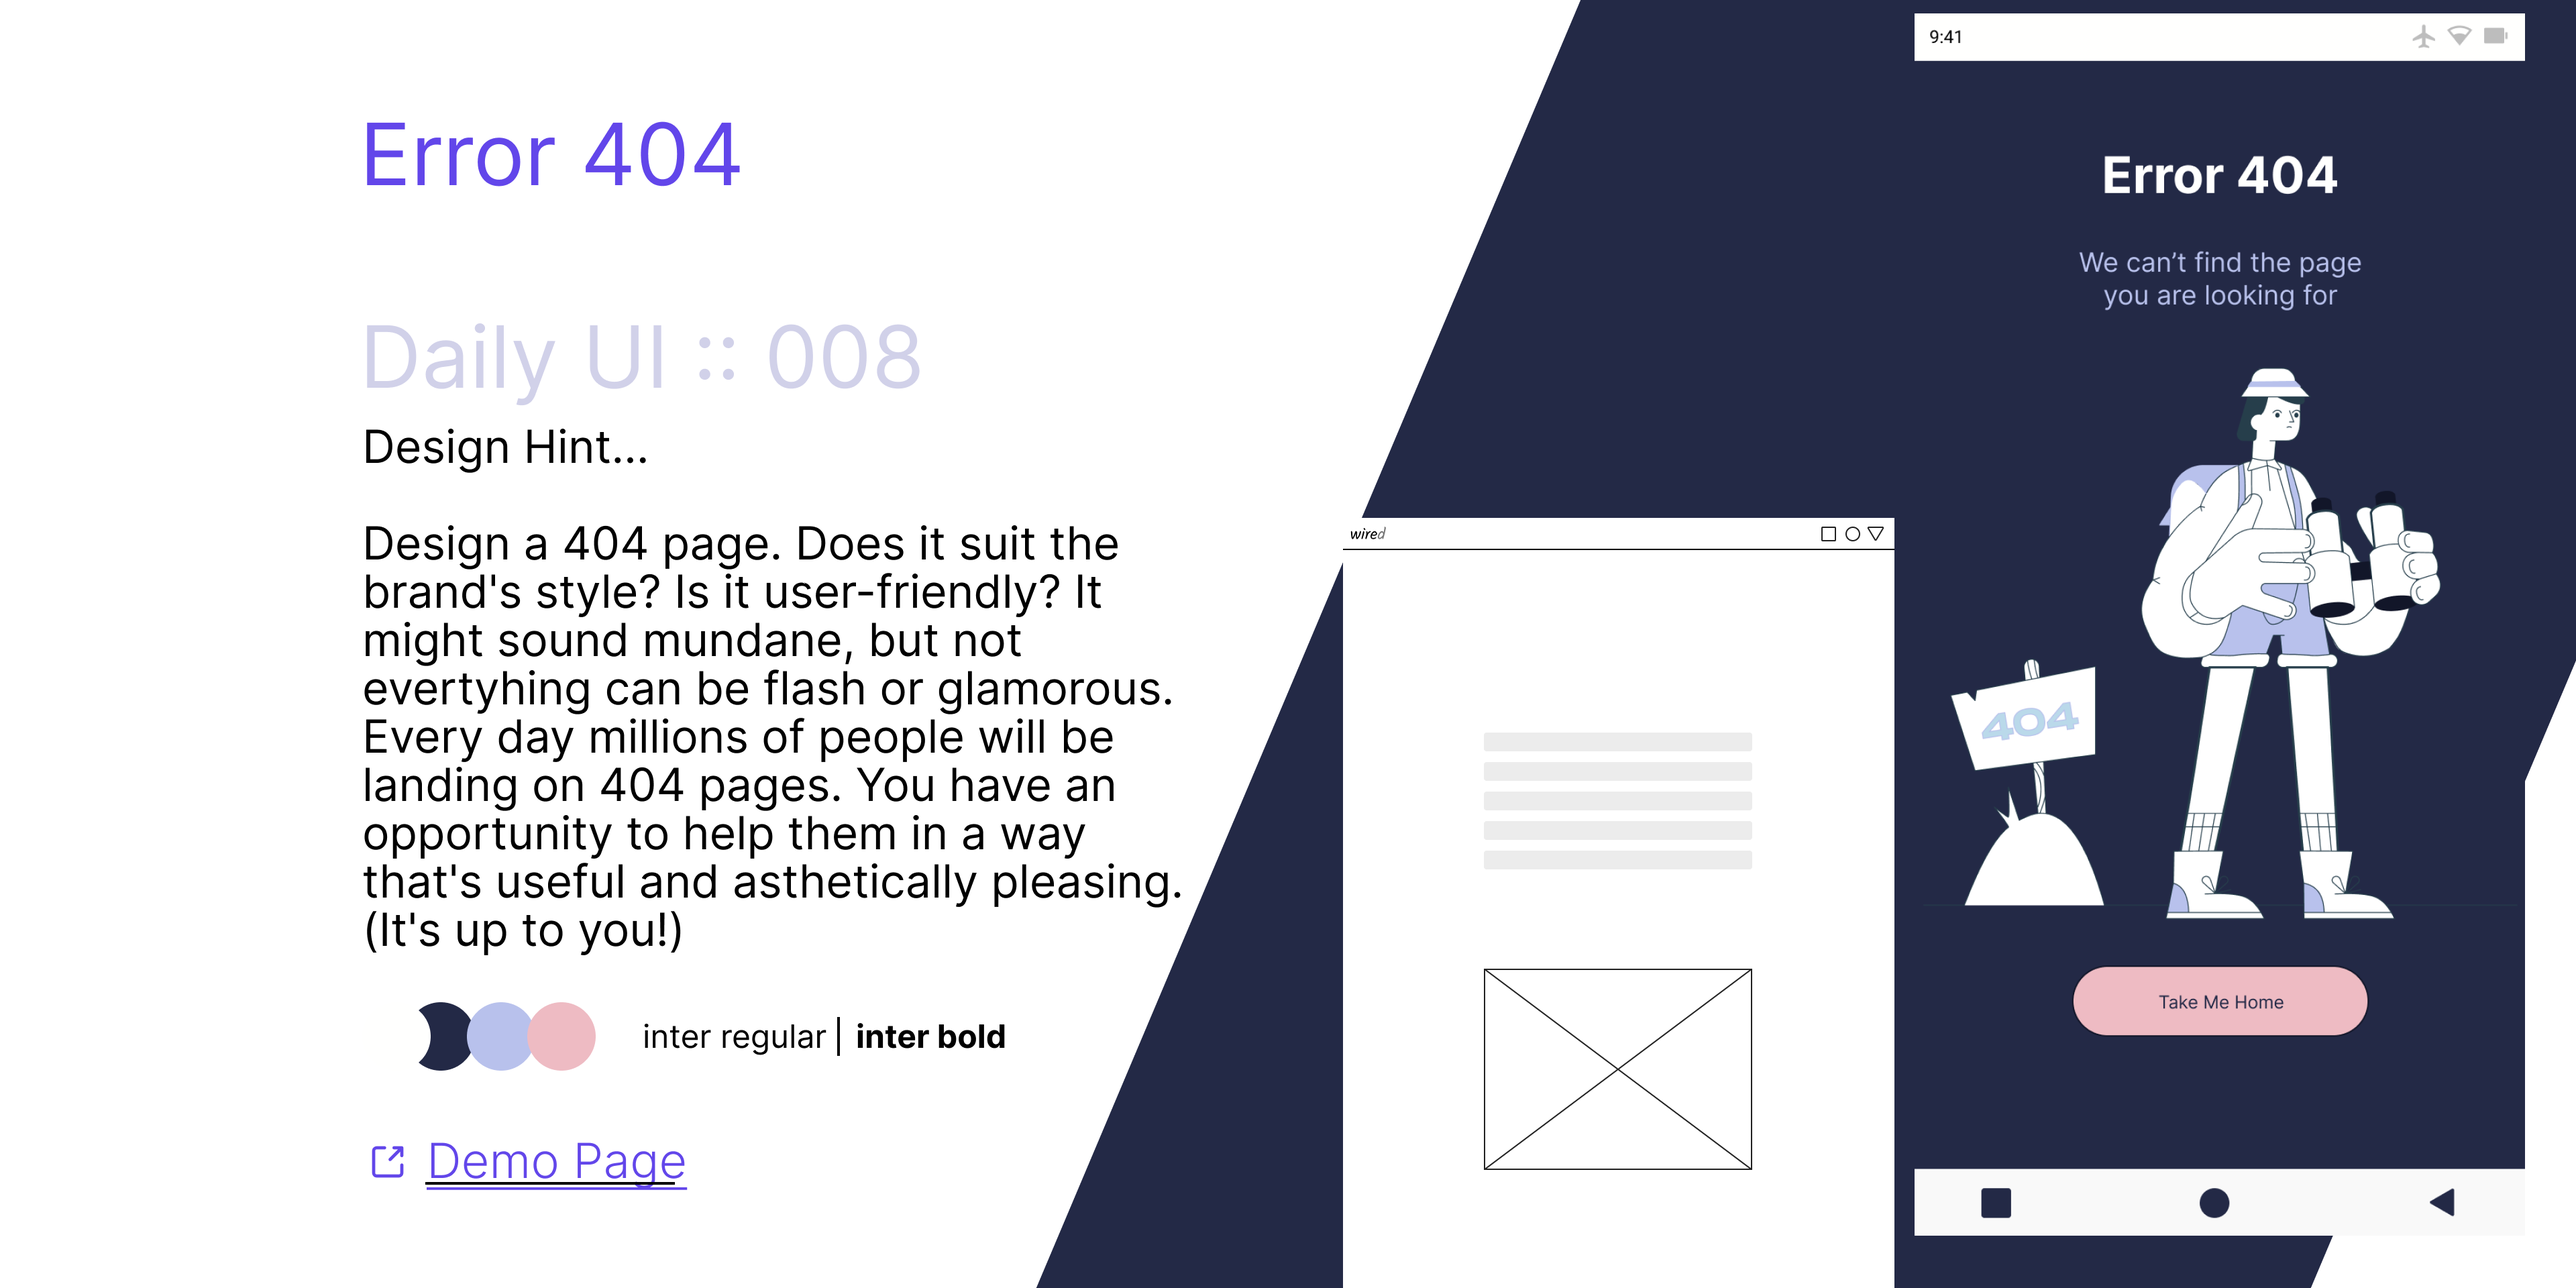
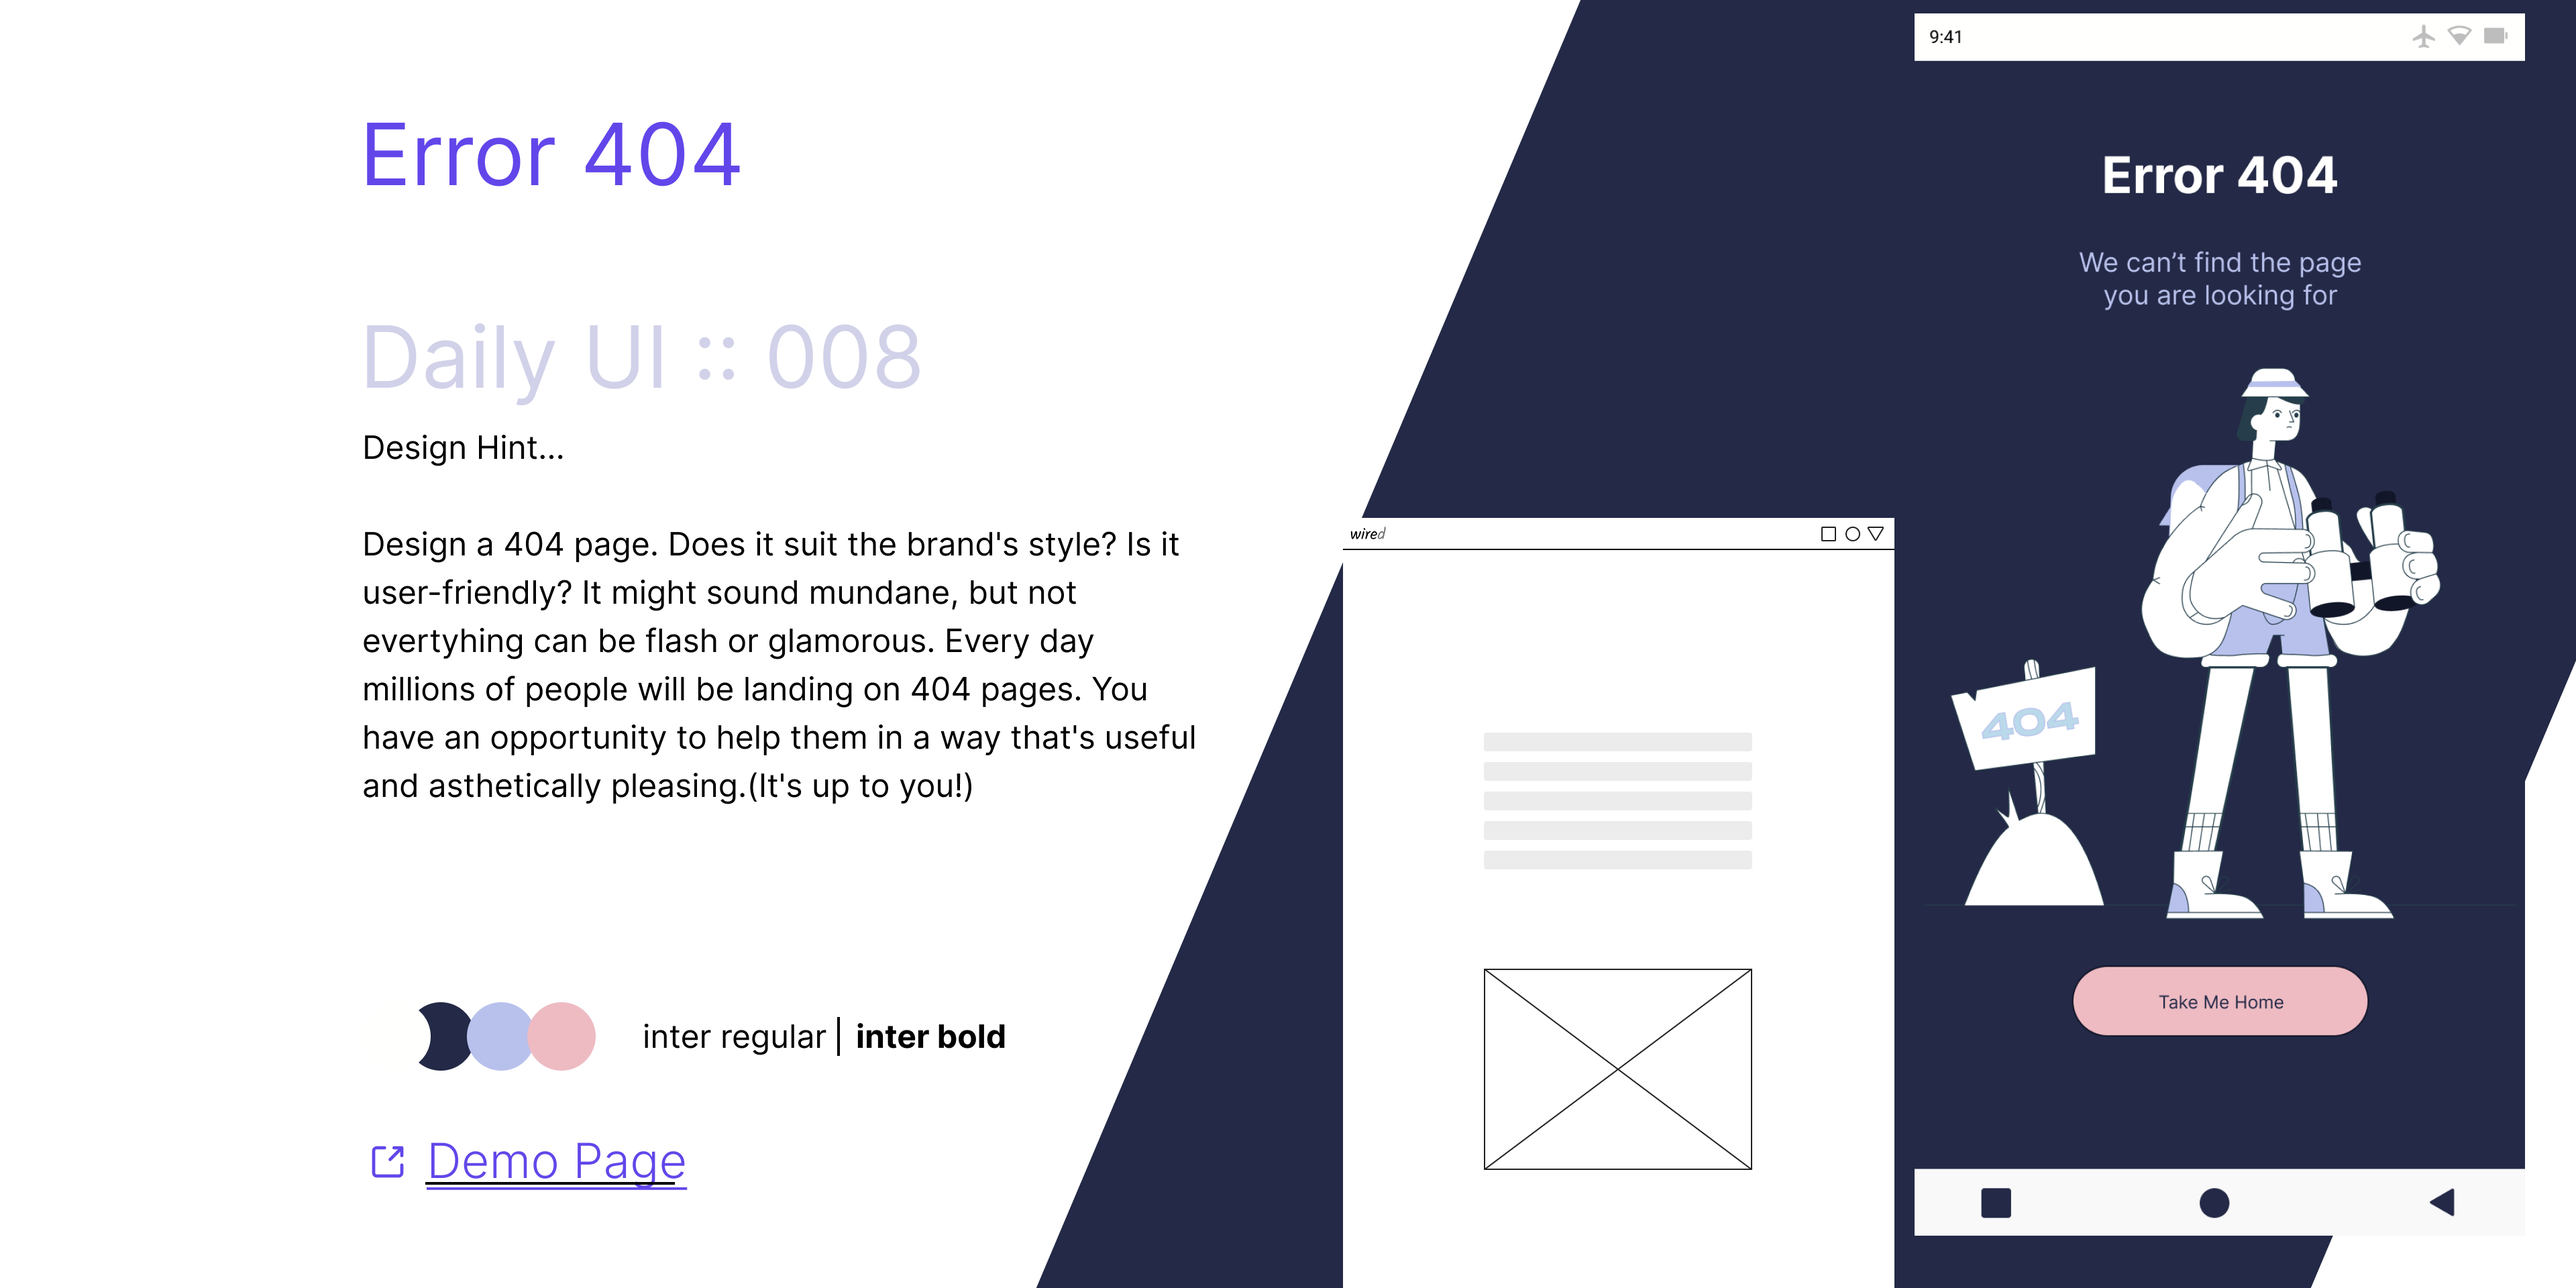
update content

Changed region(s): [[0.125, 0.4062, 0.4688, 0.75], [0.125, 0.3438, 0.25, 0.375]]

diff --git a/_posts/2021-09-28-ux-ui-design-challenges.md b/_posts/2021-09-28-ux-ui-design-challenges.md
@@ -9,7 +9,7 @@ toc: true
 ---
 
 
-As the usage of technology grows by the day, so does the demand for user experience (UX) designers. UX designers are concerned with how users interact with things such as websites, applications, and physical items. Everyday encounters are made more helpful, pleasant, and accessible by UX designers. That is why businesses of all sizes and in a variety of sectors require the services of UX designers. I am thrilled to walk through this journey to become a better UX designer, as I gain the skills necessary to launch a career/product in today's most demand to technology products.
+As the usage of technology grows by the day, so does the demand for user experience (UX) designers. UI/UX designers are concerned with how users interact with things such as websites, applications, and physical items. Everyday encounters are made more helpful, pleasant, and accessible by UX designers. That is why businesses of all sizes and in a variety of sectors require the services of UX designers. I am thrilled to walk through this journey to become a better UX designer, as I gain the skills necessary to launch a career/product in today's most demand to technology products.
 
 ## Exploring Figma
 
@@ -68,3 +68,53 @@ Design a calculator. Standard, scientific, or specialty calculator for something
 ![day four](../assets/images/ux/calculator-thumbnail.png)
 
 [Demo Page](https://www.figma.com/proto/9v1RHwmqOnTJPihWDypGFb/Daily-UI-::-004?node-id=1%3A2&viewport=241%2C48%2C1&scaling=scale-down&page-id=0%3A1%3Ffuid%3D901914268454600757)
+
+## Daily UI :: 005
+
+Design Hint...
+
+Design an app icon. What best represents the brand or product? Or is it incredibly unique? Does it look great at a distance and does it stand out when put on your home screen alongside other apps?
+
+![day five](../assets/images/ux/app-icon-thumbnail.png)
+
+[Demo Page](https://www.figma.com/proto/b3BBFaRQ3HSA9ZwI2ITGR0/Daily-UI-%3A%3A-005?node-id=8%3A42&viewport=241%2C48%2C0.74&scaling=contain&page-id=0%3A1%3Ffuid%3D901914268454600757)
+
+## Daily UI :: 006
+
+Design Hint...
+
+Design a user profile and be mindful of the most important data, names, imagery, placement, etc. Is it for a serious profile? A social profile?
+
+![day six](../assets/images/ux/user-profile-thumbnail.png)
+
+[Demo Page](https://www.figma.com/proto/R2PqHmGr5EQQuVzT1Wgnok/Daily-UI-%3A%3A-006?node-id=1%3A2&viewport=241%2C48%2C1&scaling=scale-down&page-id=0%3A1%3Ffuid%3D901914268454600757)
+
+## Daily UI :: 007
+
+Design Hint...
+
+Design settings for something. Is it for security or privacy settings? Game settings? What is it and what's important?
+
+![day seven](../assets/images/ux/settings-thumbnail.png)
+
+[Demo Page](https://www.figma.com/proto/RfPmgbbeOzwhGgdLtxESIg/Daily-UI-%3A%3A-007?node-id=20%3A37&viewport=241%2C48%2C1&scaling=min-zoom&page-id=0%3A1%3Ffuid%3D901914268454600757)
+
+## Daily UI :: 008
+
+Design Hint...
+
+Design a 404 page. Does it suit the brand's style? Is it user-friendly? It might sound mundane, but not evertyhing can be flash or glamorous. Every day millions of people will be landing on 404 pages. You have an opportunity to help them in a way that's useful and asthetically pleasing.
+
+![day eight](../assets/images/ux/error-404-thumbnail.png)
+
+[Demo Page](https://www.figma.com/proto/Vdi5PzPEBmkjpX0eaFTsF9/Daily-UI-%3A%3A-008?node-id=8%3A56&viewport=241%2C48%2C1&scaling=scale-down&page-id=0%3A1%3Ffuid%3D901914268454600757)
+
+## Daily UI :: 009
+
+Design Hint...
+
+Design a music player. Consider the controls, placements, imagery such as the artist or album cover, etc. Also, consider the device type that's playing the music. A dashboard in a tourbus, a smartwatch, or via a web browser. Each device type will have different requirements, features, and restrictions to consider.
+
+![day nine](../assets/images/ux/music-player-thumbnail.png)
+
+[Demo Page](https://www.figma.com/proto/MWmmqYDMUMFboVXyzHgdJn/Daily-UI-%3A%3A-009?node-id=2%3A2&viewport=241%2C48%2C1&scaling=scale-down&page-id=0%3A1%3Ffuid%3D901914268454600757)
